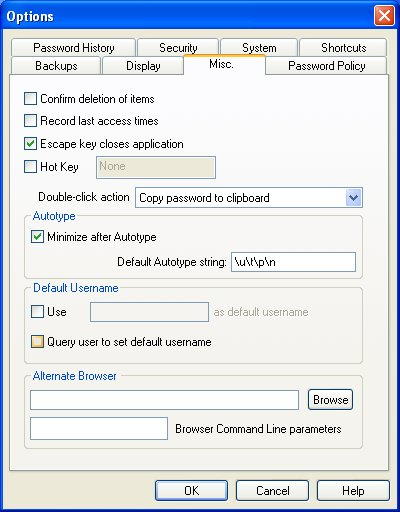
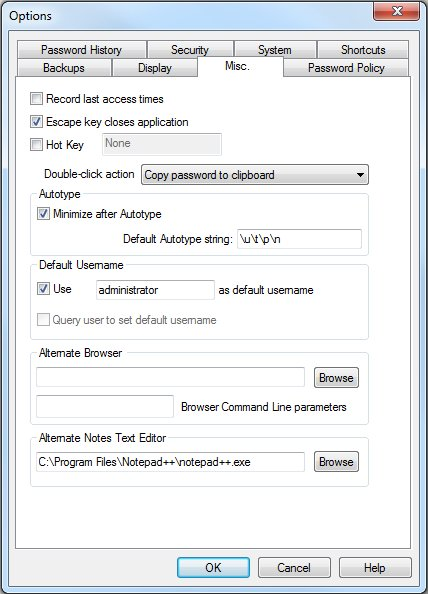
English and German help files: No "Confirm deletion of items" in miscellaneous Tab anymore

diff --git a/pwsafe/pwsafe/help/pwsafeDE/html/misc_tab.html b/pwsafe/pwsafe/help/pwsafeDE/html/misc_tab.html
@@ -15,8 +15,6 @@
 		<img src="images/options/misc_tab.jpg" alt="Reiter Verschiedenes"><br>
 <p>Mehrere Standardeinstellungen sind im Reiter <b>Verschiedenes</b> zusammengefasst.</p>
 <div class="instr">
-<h3>L&ouml;schen von Elementen best&auml;tigen</h3>
-<p>Wenn markiert, wird der Benutzer bei jedem Versuch ein Passworteintrag zu l&ouml;schen aufgefordert dies zu best&auml;tigen.</p>
 <h3>Speichere das Datum des letzten Zugriffs</h3>
 Wenn markiert, merkt sich <b>Password Safe</b> f&uuml;r jeden Eintrag den Zeitpunkt eines Zugegriffes (z.B. wann das Passwort kopiert wurde, oder wenn die Details zum Eintrag angeschaut wurden, usw.). Dieser Zeitpunkt wird zusammen mit dem Eintrag gespeichert, und kann im Dialog zu diesem Eintrag angesehen werden.<br>
 <b>Hinweis:</b><br>

diff --git a/pwsafe/pwsafe/help/default/html/misc_tab.html b/pwsafe/pwsafe/help/default/html/misc_tab.html
@@ -92,18 +92,6 @@
 		
 <div class="instr">
 			
-<h3>Confirm deletion of items</h3>
-
-
-
-
-
-
-
-			
-<p>When checked, a user prompt requesting confirmation will be displayed every time you try to delete a password entry.</p>
-
-
 
 <h3>Record last access times</h3>
 
